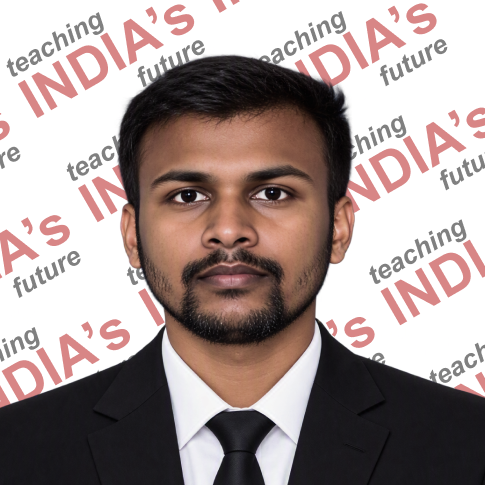
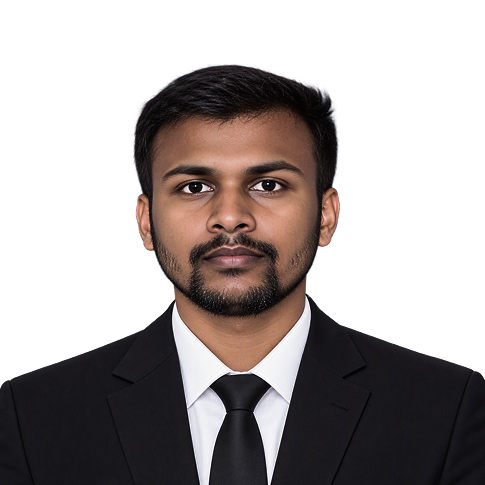
added badge

diff --git a/index.html b/index.html
@@ -30,6 +30,14 @@
   </nav>
 </header>
 
+
+<div class="future-badge">
+  <span>teaching</span>
+  <strong>INDIA'S</strong>
+  <span>future</span>
+</div>
+
+
 <main>
   <section class="hero" id="home">
     <div class="container hero-content">
@@ -62,10 +70,10 @@
       <div class="testimonial-grid">
         <article class="t-card">
           <img src="images/student1.jpg" alt="Ankit Sharma">
-          <h3>Ankit Sharma</h3>
-          <div class="institute">IIT Bombay</div>
-          <div class="rank">AIR 452 — JEE Advanced</div>
-          <p>"Sir's teaching methods made even the toughest calculus problems feel simple."</p>
+          <h3>M Mythreyan</h3>
+          <div class="institute">NIT Tiruchirappalli</div>
+          <div class="rank">AIR 5080 — JEE Mains</div>
+          <p>"You guided me like someone who had been through the same exam, helping me avoid mistakes and providing genuine emotional support beyond the usual motivation and scolding. Your guidance became a major source of my confidence and helped me overcome my all-or-nothing approach. I would definitely recommend learning under you."</p>
         </article>
 
         <article class="t-card">
@@ -162,8 +170,8 @@
   <div class="container footer-content">
     <div>
       <h3>Contact Details</h3>
-      <a href="tel:+911234567890">📞 +91 82996 39445</a>
-      <a href="mailto:me.vinayyadav2002@gmail.com">✉ vinay.yadav@example.com</a>
+      <a href="tel:+91 82996 39445">📞 +91 82996 39445</a>
+      <a href="mailto:me.vinayyadav2002@gmail.com">✉ me.vinayyadav2002@gmail.com</a>
       <p>📍 Hydrabad, India</p>
     </div>
 

diff --git a/styles.css b/styles.css
@@ -429,3 +429,80 @@ footer {
     text-align: center;
   }
 }
+
+.future-badge {
+  position: fixed;
+  right: 24px;
+  bottom: 24px;
+  z-index: 1000;
+
+  width: 220px;
+  padding: 14px 20px;
+  display: flex;
+  flex-direction: column;
+  align-items: stretch;
+
+  border: 3px solid var(--orange);
+  border-radius: 10px;
+  background: var(--black);
+  background:linear-gradient(135deg, rgba(8, 18, 40, 0.98), rgba(37, 2, 2, 0.92));
+  color: var(--white);
+  font-style: italic;
+  line-height: 1.1;
+  /* text-transform: uppercase; */
+  letter-spacing: 2px;
+}
+
+.future-badge span:first-child {
+  align-self: flex-start;
+}
+
+.future-badge strong {
+  align-self: center;
+  color: var(--orange);
+  font-size: 2.0rem;
+  font-weight: 800;
+}
+
+.future-badge span:last-child {
+  align-self: flex-end;
+}
+
+@media (max-width: 700px) {
+  .future-badge {
+    right: 14px;
+    bottom: 14px;
+    width: 170px;
+    padding: 10px 14px;
+  }
+
+  .future-badge strong {
+    font-size: 1.2rem;
+  }
+}
+
+.future-badge span,
+.future-badge strong {
+  animation: badgeText 2s ease-in-out infinite;
+}
+
+.future-badge strong {
+  animation-delay: 0.3s;
+}
+
+.future-badge span:last-child {
+  animation-delay: 0.6s;
+}
+
+@keyframes badgeText {
+  0%,
+  100% {
+    opacity: 0.65;
+    transform: translateX(0);
+  }
+
+  50% {
+    opacity: 1;
+    transform: translateX(5px);
+  }
+}
